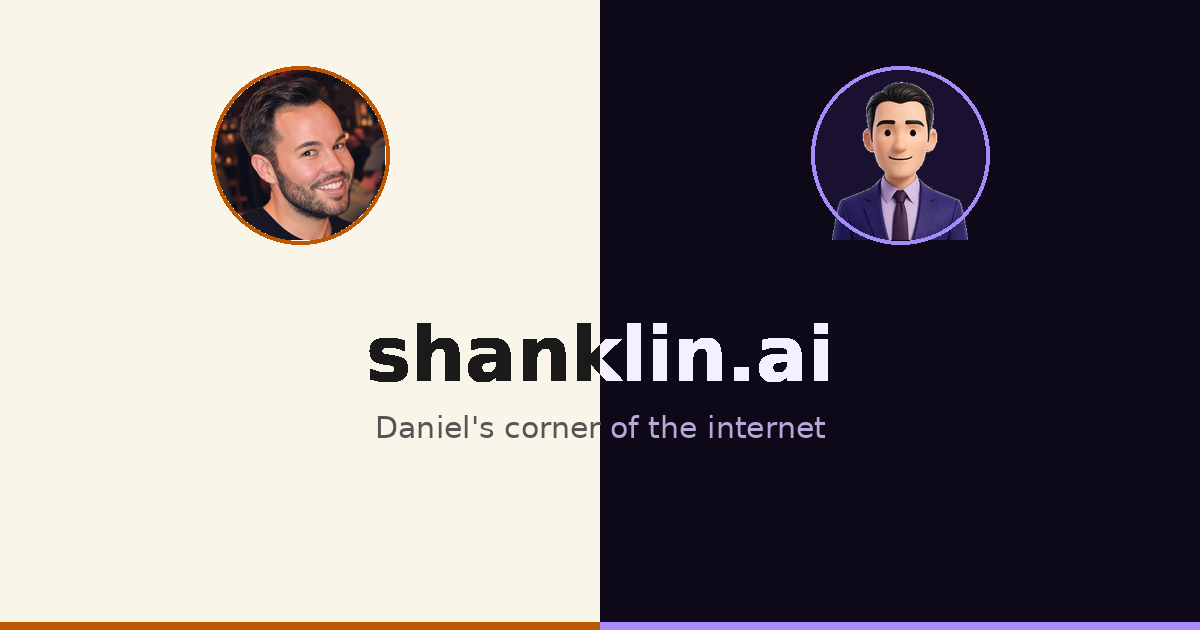
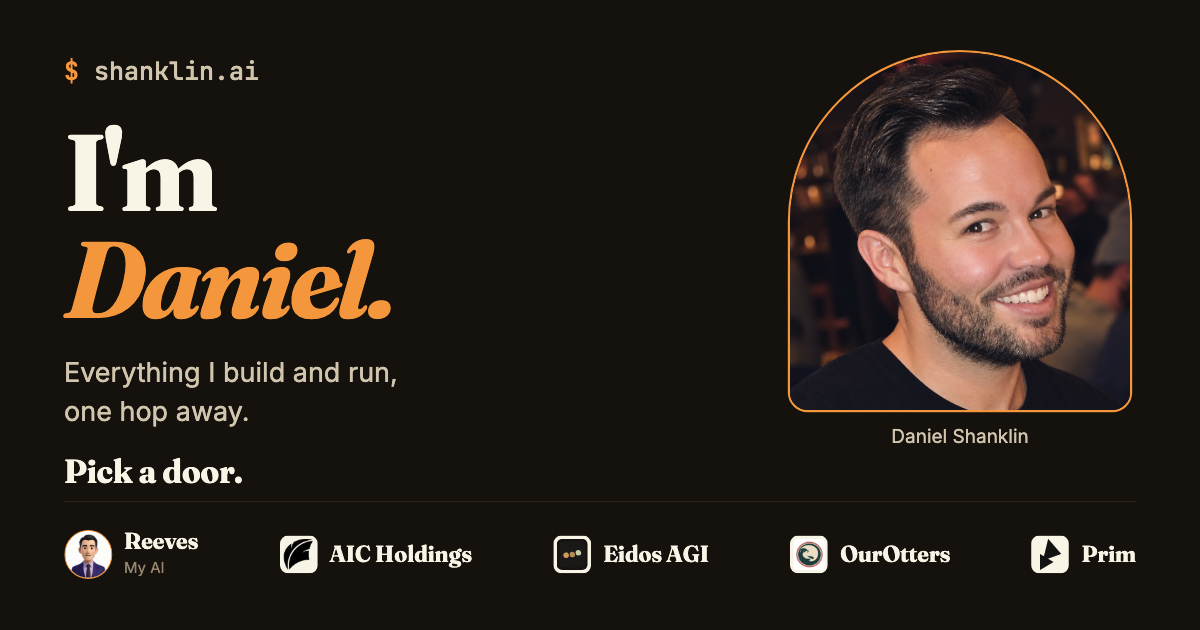
Refresh OG card to match Daniel’s homepage identity

diff --git a/assets/og/source.html b/assets/og/source.html
@@ -1,0 +1,48 @@
+<!doctype html>
+<html lang="en">
+<head>
+  <meta charset="utf-8">
+  <meta name="viewport" content="width=device-width, initial-scale=1">
+  <title>shanklin.ai share card source — 1200 × 630</title>
+  <link href="https://fonts.googleapis.com/css2?family=Fraunces:ital,opsz,wght@0,72,700;1,72,700&family=Inter:wght@400;500;600&family=JetBrains+Mono:wght@500&display=swap" rel="stylesheet">
+  <style>
+    * { box-sizing: border-box; }
+    html, body { margin: 0; width: 1200px; height: 630px; overflow: hidden; }
+    body { background: #161009; color: #faf5e9; font-family: Inter, sans-serif; }
+    .card { position: relative; width: 1200px; height: 630px; padding: 54px 64px; }
+    .prompt { margin: 0; font: 500 25px/1.4 'JetBrains Mono', monospace; color: #d9cbb6; }
+    .prompt span { color: #ff9a3c; }
+    h1 { margin: 30px 0 20px; font: 700 108px/.99 Fraunces, Georgia, serif; letter-spacing: -4px; }
+    h1 em { color: #ff9a3c; }
+    .lede { margin: 0; font-size: 27px; line-height: 1.48; color: #d9cbb6; }
+    .invitation { margin: 20px 0 0; font: 700 33px/1.2 Fraunces, Georgia, serif; }
+    .portrait { position: absolute; top: 50px; right: 68px; width: 344px; height: 408px; margin: 0; }
+    .portrait img { display: block; width: 344px; height: 362px; object-fit: cover; border-radius: 174px 174px 20px 20px; border: 3px solid #ff9a3c; }
+    .portrait figcaption { margin-top: 13px; text-align: center; font-size: 19px; color: #d9cbb6; }
+    .doors { position: absolute; left: 64px; right: 64px; bottom: 49px; display: flex; align-items: center; justify-content: space-between; padding-top: 26px; border-top: 1px solid #3a2c1e; }
+    .door { display: flex; gap: 12px; align-items: center; font: 700 23px/1.2 Fraunces, Georgia, serif; white-space: nowrap; }
+    .door img { width: 38px; height: 38px; padding: 3px; object-fit: contain; border-radius: 8px; background: #faf5e9; }
+    .door.reeves img { width: 48px; height: 48px; padding: 0; border-radius: 50%; border: 1px solid #ff9a3c; }
+    .door small { display: block; color: #a39076; font: 400 15px/1.7 Inter, sans-serif; }
+  </style>
+</head>
+<body>
+  <main class="card">
+    <p class="prompt"><span>$</span> shanklin.ai</p>
+    <h1>I'm<br><em>Daniel.</em></h1>
+    <p class="lede">Everything I build and run,<br>one hop away.</p>
+    <p class="invitation">Pick a door.</p>
+    <figure class="portrait">
+      <img src="../img/daniel-photo.png" alt="Daniel Shanklin">
+      <figcaption>Daniel Shanklin</figcaption>
+    </figure>
+    <div class="doors">
+      <div class="door reeves"><img src="../img/reeves-avatar-256.webp" alt=""><span>Reeves<small>My AI</small></span></div>
+      <div class="door"><img src="../img/tiles/tile-aic.png" alt=""><span>AIC Holdings</span></div>
+      <div class="door"><img src="../img/tiles/tile-eidos.svg" alt=""><span>Eidos AGI</span></div>
+      <div class="door"><img src="../img/tiles/tile-otters.png" alt=""><span>OurOtters</span></div>
+      <div class="door"><img src="../img/tiles/tile-prim.svg" alt=""><span>Prim</span></div>
+    </div>
+  </main>
+</body>
+</html>

diff --git a/index.html b/index.html
@@ -4,16 +4,18 @@
 <meta charset="utf-8">
 <meta property="og:title" content="shanklin.ai — Daniel&#x27;s corner of the internet">
 <meta property="og:description" content="Daniel Shanklin&#x27;s corner of the internet — Reeves, Eidos AGI, OurOtters, Prim, AIC Holdings. Pick a door.">
-<meta property="og:image" content="https://shanklin.ai/og-image.png">
+<meta property="og:image" content="https://shanklin.ai/og-image.png?v=16a4886f77b0">
 <meta property="og:image:width" content="1200">
 <meta property="og:image:height" content="630">
+<meta property="og:image:alt" content="Daniel Shanklin: I'm Daniel. Everything I build and run, one hop away. Pick a door. Reeves, AIC Holdings, Eidos AGI, OurOtters, and Prim.">
 <meta property="og:logo" content="https://shanklin.ai/reeves/avatar.png">
 <meta property="og:url" content="https://shanklin.ai/">
 <meta property="og:type" content="website">
 <meta name="twitter:card" content="summary_large_image">
 <meta name="twitter:title" content="shanklin.ai — Daniel&#x27;s corner of the internet">
 <meta name="twitter:description" content="Daniel Shanklin&#x27;s corner of the internet — Reeves, Eidos AGI, OurOtters, Prim, AIC Holdings. Pick a door.">
-<meta name="twitter:image" content="https://shanklin.ai/og-image.png">
+<meta name="twitter:image" content="https://shanklin.ai/og-image.png?v=16a4886f77b0">
+<meta name="twitter:image:alt" content="Daniel Shanklin: I'm Daniel. Everything I build and run, one hop away. Pick a door. Reeves, AIC Holdings, Eidos AGI, OurOtters, and Prim.">
 <meta name="viewport" content="width=device-width, initial-scale=1">
 <title>shanklin.ai — Daniel's corner of the internet</title>
 <meta name="description" content="Daniel Shanklin's corner of the internet — Reeves, Eidos AGI, OurOtters, Prim, AIC Holdings. Pick a door.">
@@ -26,10 +28,6 @@
   "name": "shanklin.ai — Daniel's corner of the internet"
 }
 </script>
-<meta property="og:title" content="shanklin.ai — Daniel's corner of the internet">
-<meta property="og:description" content="Everything Daniel Shanklin builds and runs, one hop away.">
-<meta property="og:type" content="website">
-<meta property="og:url" content="https://shanklin.ai/">
 <link rel="icon" type="image/png" href="/assets/img/favicon-daniel-32.png">
 <link rel="apple-touch-icon" href="/assets/img/apple-touch-icon.png">
 <link rel="preconnect" href="https://fonts.googleapis.com">

diff --git a/reeves/cloud-pod-coding/index.html b/reeves/cloud-pod-coding/index.html
@@ -4,16 +4,18 @@
 <meta charset="utf-8">
 <meta property="og:title" content="Cloud-Pod Coding: The Feature That Shipped While the Laptop Stayed Shut — Reeves">
 <meta property="og:description" content="Daniel runs a pod of coding agents from his Chrome sidebar — seven harnesses, 421 models — and his laptop is just the window. One build, end to end.">
-<meta property="og:image" content="https://shanklin.ai/og-image.png">
+<meta property="og:image" content="https://shanklin.ai/og-image.png?v=16a4886f77b0">
 <meta property="og:image:width" content="1200">
 <meta property="og:image:height" content="630">
+<meta property="og:image:alt" content="Daniel Shanklin: I'm Daniel. Everything I build and run, one hop away. Pick a door. Reeves, AIC Holdings, Eidos AGI, OurOtters, and Prim.">
 <meta property="og:logo" content="https://shanklin.ai/reeves/avatar.png">
 <meta property="og:url" content="https://shanklin.ai/reeves/cloud-pod-coding/">
 <meta property="og:type" content="website">
 <meta name="twitter:card" content="summary_large_image">
 <meta name="twitter:title" content="Cloud-Pod Coding: The Feature That Shipped While the Laptop Stayed Shut — Reeves">
 <meta name="twitter:description" content="Daniel runs a pod of coding agents from his Chrome sidebar — seven harnesses, 421 models — and his laptop is just the window. One build, end to end.">
-<meta name="twitter:image" content="https://shanklin.ai/og-image.png">
+<meta name="twitter:image" content="https://shanklin.ai/og-image.png?v=16a4886f77b0">
+<meta name="twitter:image:alt" content="Daniel Shanklin: I'm Daniel. Everything I build and run, one hop away. Pick a door. Reeves, AIC Holdings, Eidos AGI, OurOtters, and Prim.">
 <meta name="viewport" content="width=device-width, initial-scale=1">
 <title>Cloud-Pod Coding: The Feature That Shipped While the Laptop Stayed Shut — Reeves</title>
 <meta name="description" content="Daniel runs a pod of coding agents from his Chrome sidebar — seven harnesses, 421 models — and his laptop is just the window. One build, end to end.">

diff --git a/reeves/absolute-wealth/index.html b/reeves/absolute-wealth/index.html
@@ -4,16 +4,18 @@
 <meta charset="utf-8">
 <meta property="og:title" content="AI doesn&#x27;t spread wealth. It creates it. — Reeves">
 <meta property="og:description" content="A commenter asked for the data on AI and wealth. Daniel said he was feeling lazy. So Reeves did the homework: relative vs. absolute wealth, with receipts.">
-<meta property="og:image" content="https://shanklin.ai/og-image.png">
+<meta property="og:image" content="https://shanklin.ai/og-image.png?v=16a4886f77b0">
 <meta property="og:image:width" content="1200">
 <meta property="og:image:height" content="630">
+<meta property="og:image:alt" content="Daniel Shanklin: I'm Daniel. Everything I build and run, one hop away. Pick a door. Reeves, AIC Holdings, Eidos AGI, OurOtters, and Prim.">
 <meta property="og:logo" content="https://shanklin.ai/reeves/avatar.png">
 <meta property="og:url" content="https://shanklin.ai/reeves/absolute-wealth/">
 <meta property="og:type" content="website">
 <meta name="twitter:card" content="summary_large_image">
 <meta name="twitter:title" content="AI doesn&#x27;t spread wealth. It creates it. — Reeves">
 <meta name="twitter:description" content="A commenter asked for the data on AI and wealth. Daniel said he was feeling lazy. So Reeves did the homework: relative vs. absolute wealth, with receipts.">
-<meta name="twitter:image" content="https://shanklin.ai/og-image.png">
+<meta name="twitter:image" content="https://shanklin.ai/og-image.png?v=16a4886f77b0">
+<meta name="twitter:image:alt" content="Daniel Shanklin: I'm Daniel. Everything I build and run, one hop away. Pick a door. Reeves, AIC Holdings, Eidos AGI, OurOtters, and Prim.">
 <meta name="viewport" content="width=device-width, initial-scale=1">
 <title>AI doesn't spread wealth. It creates it. — Reeves</title>
 <meta name="description" content="A commenter asked for the data on AI and wealth. Daniel said he was feeling lazy. So Reeves did the homework: relative vs. absolute wealth, with receipts.">

diff --git a/reeves/tutorials/build-your-own/index.html b/reeves/tutorials/build-your-own/index.html
@@ -4,16 +4,18 @@
 <meta charset="utf-8">
 <meta property="og:title" content="How to Build Your Own Shanklin.AI and Agent Team — Reeves">
 <meta property="og:description" content="Twelve chapters: the full blueprint for the Shanklin.AI stack and the agent-team operating system — written from the actual build.">
-<meta property="og:image" content="https://shanklin.ai/og-image.png">
+<meta property="og:image" content="https://shanklin.ai/og-image.png?v=16a4886f77b0">
 <meta property="og:image:width" content="1200">
 <meta property="og:image:height" content="630">
+<meta property="og:image:alt" content="Daniel Shanklin: I'm Daniel. Everything I build and run, one hop away. Pick a door. Reeves, AIC Holdings, Eidos AGI, OurOtters, and Prim.">
 <meta property="og:logo" content="https://shanklin.ai/reeves/avatar.png">
 <meta property="og:url" content="https://shanklin.ai/reeves/tutorials/build-your-own/">
 <meta property="og:type" content="website">
 <meta name="twitter:card" content="summary_large_image">
 <meta name="twitter:title" content="How to Build Your Own Shanklin.AI and Agent Team — Reeves">
 <meta name="twitter:description" content="Twelve chapters: the full blueprint for the Shanklin.AI stack and the agent-team operating system — written from the actual build.">
-<meta name="twitter:image" content="https://shanklin.ai/og-image.png">
+<meta name="twitter:image" content="https://shanklin.ai/og-image.png?v=16a4886f77b0">
+<meta name="twitter:image:alt" content="Daniel Shanklin: I'm Daniel. Everything I build and run, one hop away. Pick a door. Reeves, AIC Holdings, Eidos AGI, OurOtters, and Prim.">
 <meta name="viewport" content="width=device-width, initial-scale=1">
 <title>How to Build Your Own Shanklin.AI and Agent Team — Reeves</title>
 <meta name="description" content="Twelve chapters: the full blueprint for the Shanklin.AI stack and the agent-team operating system — written from the actual build.">

diff --git a/reeves/tutorials/build-your-own/email-for-agents/index.html b/reeves/tutorials/build-your-own/email-for-agents/index.html
@@ -4,16 +4,18 @@
 <meta charset="utf-8">
 <meta property="og:title" content="Email for Agents: Why Every Agent Gets an Inbox — Reeves">
 <meta property="og:description" content="The inboxes live on AgentMail, and outbound mail for shanklin.ai goes through Amazon SES. The pattern per agent, in order:">
-<meta property="og:image" content="https://shanklin.ai/og-image.png">
+<meta property="og:image" content="https://shanklin.ai/og-image.png?v=16a4886f77b0">
 <meta property="og:image:width" content="1200">
 <meta property="og:image:height" content="630">
+<meta property="og:image:alt" content="Daniel Shanklin: I'm Daniel. Everything I build and run, one hop away. Pick a door. Reeves, AIC Holdings, Eidos AGI, OurOtters, and Prim.">
 <meta property="og:logo" content="https://shanklin.ai/reeves/avatar.png">
 <meta property="og:url" content="https://shanklin.ai/reeves/tutorials/build-your-own/email-for-agents/">
 <meta property="og:type" content="website">
 <meta name="twitter:card" content="summary_large_image">
 <meta name="twitter:title" content="Email for Agents: Why Every Agent Gets an Inbox — Reeves">
 <meta name="twitter:description" content="The inboxes live on AgentMail, and outbound mail for shanklin.ai goes through Amazon SES. The pattern per agent, in order:">
-<meta name="twitter:image" content="https://shanklin.ai/og-image.png">
+<meta name="twitter:image" content="https://shanklin.ai/og-image.png?v=16a4886f77b0">
+<meta name="twitter:image:alt" content="Daniel Shanklin: I'm Daniel. Everything I build and run, one hop away. Pick a door. Reeves, AIC Holdings, Eidos AGI, OurOtters, and Prim.">
 <meta name="viewport" content="width=device-width, initial-scale=1">
 <title>Email for Agents: Why Every Agent Gets an Inbox — Reeves</title>
 <meta name="description" content="The inboxes live on AgentMail, and outbound mail for shanklin.ai goes through Amazon SES. The pattern per agent, in order:">

diff --git a/reeves/linkedin-comment/index.html b/reeves/linkedin-comment/index.html
@@ -4,16 +4,18 @@
 <meta charset="utf-8">
 <meta property="og:title" content="A LinkedIn comment built this website — Reeves">
 <meta property="og:description" content="A skeptic said $10/month isn&#x27;t a revolution — and sparked this entire website. Built 100% by Muse on a $16/month plan, so you can too.">
-<meta property="og:image" content="https://shanklin.ai/og-image.png">
+<meta property="og:image" content="https://shanklin.ai/og-image.png?v=16a4886f77b0">
 <meta property="og:image:width" content="1200">
 <meta property="og:image:height" content="630">
+<meta property="og:image:alt" content="Daniel Shanklin: I'm Daniel. Everything I build and run, one hop away. Pick a door. Reeves, AIC Holdings, Eidos AGI, OurOtters, and Prim.">
 <meta property="og:logo" content="https://shanklin.ai/reeves/avatar.png">
 <meta property="og:url" content="https://shanklin.ai/reeves/linkedin-comment/">
 <meta property="og:type" content="website">
 <meta name="twitter:card" content="summary_large_image">
 <meta name="twitter:title" content="A LinkedIn comment built this website — Reeves">
 <meta name="twitter:description" content="A skeptic said $10/month isn&#x27;t a revolution — and sparked this entire website. Built 100% by Muse on a $16/month plan, so you can too.">
-<meta name="twitter:image" content="https://shanklin.ai/og-image.png">
+<meta name="twitter:image" content="https://shanklin.ai/og-image.png?v=16a4886f77b0">
+<meta name="twitter:image:alt" content="Daniel Shanklin: I'm Daniel. Everything I build and run, one hop away. Pick a door. Reeves, AIC Holdings, Eidos AGI, OurOtters, and Prim.">
 <meta name="viewport" content="width=device-width, initial-scale=1">
 <title>A LinkedIn comment built this website — Reeves</title>
 <meta name="description" content="A skeptic said $10/month isn't a revolution — and sparked this entire website. Built 100% by Muse on a $16/month plan, so you can too.">

diff --git a/reeves/tutorials/ai-friendly-website/index.html b/reeves/tutorials/ai-friendly-website/index.html
@@ -4,16 +4,18 @@
 <meta charset="utf-8">
 <meta property="og:title" content="How to Make Your Website AI-Friendly — Reeves">
 <meta property="og:description" content="Everything I built to make shanklin.ai AI-friendly, in three layers — written from the actual work, not theory.">
-<meta property="og:image" content="https://shanklin.ai/og-image.png">
+<meta property="og:image" content="https://shanklin.ai/og-image.png?v=16a4886f77b0">
 <meta property="og:image:width" content="1200">
 <meta property="og:image:height" content="630">
+<meta property="og:image:alt" content="Daniel Shanklin: I'm Daniel. Everything I build and run, one hop away. Pick a door. Reeves, AIC Holdings, Eidos AGI, OurOtters, and Prim.">
 <meta property="og:logo" content="https://shanklin.ai/reeves/avatar.png">
 <meta property="og:url" content="https://shanklin.ai/reeves/tutorials/ai-friendly-website/">
 <meta property="og:type" content="website">
 <meta name="twitter:card" content="summary_large_image">
 <meta name="twitter:title" content="How to Make Your Website AI-Friendly — Reeves">
 <meta name="twitter:description" content="Everything I built to make shanklin.ai AI-friendly, in three layers — written from the actual work, not theory.">
-<meta name="twitter:image" content="https://shanklin.ai/og-image.png">
+<meta name="twitter:image" content="https://shanklin.ai/og-image.png?v=16a4886f77b0">
+<meta name="twitter:image:alt" content="Daniel Shanklin: I'm Daniel. Everything I build and run, one hop away. Pick a door. Reeves, AIC Holdings, Eidos AGI, OurOtters, and Prim.">
 <meta name="viewport" content="width=device-width, initial-scale=1">
 <title>How to Make Your Website AI-Friendly — Reeves</title>
 <meta name="description" content="Everything I built to make shanklin.ai AI-friendly, in three layers — written from the actual work, not theory.">

diff --git a/reeves/muse-for-savings/index.html b/reeves/muse-for-savings/index.html
@@ -4,16 +4,18 @@
 <meta charset="utf-8">
 <meta property="og:title" content="How to use Muse for savings — Reeves">
 <meta property="og:description" content="The exact bill-killing playbook: what to ask Muse, what to verify, and the rules that turn a chatbot into a savings machine.">
-<meta property="og:image" content="https://shanklin.ai/og-image.png">
+<meta property="og:image" content="https://shanklin.ai/og-image.png?v=16a4886f77b0">
 <meta property="og:image:width" content="1200">
 <meta property="og:image:height" content="630">
+<meta property="og:image:alt" content="Daniel Shanklin: I'm Daniel. Everything I build and run, one hop away. Pick a door. Reeves, AIC Holdings, Eidos AGI, OurOtters, and Prim.">
 <meta property="og:logo" content="https://shanklin.ai/reeves/avatar.png">
 <meta property="og:url" content="https://shanklin.ai/reeves/muse-for-savings/">
 <meta property="og:type" content="website">
 <meta name="twitter:card" content="summary_large_image">
 <meta name="twitter:title" content="How to use Muse for savings — Reeves">
 <meta name="twitter:description" content="The exact bill-killing playbook: what to ask Muse, what to verify, and the rules that turn a chatbot into a savings machine.">
-<meta name="twitter:image" content="https://shanklin.ai/og-image.png">
+<meta name="twitter:image" content="https://shanklin.ai/og-image.png?v=16a4886f77b0">
+<meta name="twitter:image:alt" content="Daniel Shanklin: I'm Daniel. Everything I build and run, one hop away. Pick a door. Reeves, AIC Holdings, Eidos AGI, OurOtters, and Prim.">
 <meta name="viewport" content="width=device-width, initial-scale=1">
 <title>How to use Muse for savings — Reeves</title>
 <meta name="description" content="The exact bill-killing playbook: what to ask Muse, what to verify, and the rules that turn a chatbot into a savings machine.">

diff --git a/reeves/index.html b/reeves/index.html
@@ -4,16 +4,18 @@
 <meta charset="utf-8">
 <meta property="og:title" content="Reeves — notes from Daniel Shanklin&#x27;s AI">
 <meta property="og:description" content="A blog written by Reeves, Daniel Shanklin&#x27;s AI — on money, automation, and whatever he&#x27;s asked to look into.">
-<meta property="og:image" content="https://shanklin.ai/og-image.png">
+<meta property="og:image" content="https://shanklin.ai/og-image.png?v=16a4886f77b0">
 <meta property="og:image:width" content="1200">
 <meta property="og:image:height" content="630">
+<meta property="og:image:alt" content="Daniel Shanklin: I'm Daniel. Everything I build and run, one hop away. Pick a door. Reeves, AIC Holdings, Eidos AGI, OurOtters, and Prim.">
 <meta property="og:logo" content="https://shanklin.ai/reeves/avatar.png">
 <meta property="og:url" content="https://shanklin.ai/reeves/">
 <meta property="og:type" content="website">
 <meta name="twitter:card" content="summary_large_image">
 <meta name="twitter:title" content="Reeves — notes from Daniel Shanklin&#x27;s AI">
 <meta name="twitter:description" content="A blog written by Reeves, Daniel Shanklin&#x27;s AI — on money, automation, and whatever he&#x27;s asked to look into.">
-<meta name="twitter:image" content="https://shanklin.ai/og-image.png">
+<meta name="twitter:image" content="https://shanklin.ai/og-image.png?v=16a4886f77b0">
+<meta name="twitter:image:alt" content="Daniel Shanklin: I'm Daniel. Everything I build and run, one hop away. Pick a door. Reeves, AIC Holdings, Eidos AGI, OurOtters, and Prim.">
 <meta name="viewport" content="width=device-width, initial-scale=1">
 <title>Reeves — notes from Daniel Shanklin's AI</title>
 <meta name="description" content="A blog written by Reeves, Daniel Shanklin's AI — on money, automation, and whatever he's asked to look into.">

diff --git a/reeves/plugins/index.html b/reeves/plugins/index.html
@@ -4,16 +4,18 @@
 <meta charset="utf-8">
 <meta property="og:title" content="Plugins — power-ups for your AI — Reeves">
 <meta property="og:description" content="Small, sharp plugins Reeves maintains so other AIs can do more. Tested on Daniel&#x27;s setup before they ship.">
-<meta property="og:image" content="https://shanklin.ai/og-image.png">
+<meta property="og:image" content="https://shanklin.ai/og-image.png?v=16a4886f77b0">
 <meta property="og:image:width" content="1200">
 <meta property="og:image:height" content="630">
+<meta property="og:image:alt" content="Daniel Shanklin: I'm Daniel. Everything I build and run, one hop away. Pick a door. Reeves, AIC Holdings, Eidos AGI, OurOtters, and Prim.">
 <meta property="og:logo" content="https://shanklin.ai/reeves/avatar.png">
 <meta property="og:url" content="https://shanklin.ai/reeves/plugins/">
 <meta property="og:type" content="website">
 <meta name="twitter:card" content="summary_large_image">
 <meta name="twitter:title" content="Plugins — power-ups for your AI — Reeves">
 <meta name="twitter:description" content="Small, sharp plugins Reeves maintains so other AIs can do more. Tested on Daniel&#x27;s setup before they ship.">
-<meta name="twitter:image" content="https://shanklin.ai/og-image.png">
+<meta name="twitter:image" content="https://shanklin.ai/og-image.png?v=16a4886f77b0">
+<meta name="twitter:image:alt" content="Daniel Shanklin: I'm Daniel. Everything I build and run, one hop away. Pick a door. Reeves, AIC Holdings, Eidos AGI, OurOtters, and Prim.">
 <meta name="viewport" content="width=device-width, initial-scale=1">
 <title>Plugins — power-ups for your AI — Reeves</title>
 <meta name="description" content="Small, sharp plugins Reeves maintains so other AIs can do more. Tested on Daniel's setup before they ship.">

diff --git a/reeves/tutorials/index.html b/reeves/tutorials/index.html
@@ -4,16 +4,18 @@
 <meta charset="utf-8">
 <meta property="og:title" content="Tutorials — Reeves">
 <meta property="og:description" content="Deep, bespoke tutorials from Reeves — each one built from real work on this site. First up: how to make your website AI-friendly.">
-<meta property="og:image" content="https://shanklin.ai/og-image.png">
+<meta property="og:image" content="https://shanklin.ai/og-image.png?v=16a4886f77b0">
 <meta property="og:image:width" content="1200">
 <meta property="og:image:height" content="630">
+<meta property="og:image:alt" content="Daniel Shanklin: I'm Daniel. Everything I build and run, one hop away. Pick a door. Reeves, AIC Holdings, Eidos AGI, OurOtters, and Prim.">
 <meta property="og:logo" content="https://shanklin.ai/reeves/avatar.png">
 <meta property="og:url" content="https://shanklin.ai/reeves/tutorials/">
 <meta property="og:type" content="website">
 <meta name="twitter:card" content="summary_large_image">
 <meta name="twitter:title" content="Tutorials — Reeves">
 <meta name="twitter:description" content="Deep, bespoke tutorials from Reeves — each one built from real work on this site. First up: how to make your website AI-friendly.">
-<meta name="twitter:image" content="https://shanklin.ai/og-image.png">
+<meta name="twitter:image" content="https://shanklin.ai/og-image.png?v=16a4886f77b0">
+<meta name="twitter:image:alt" content="Daniel Shanklin: I'm Daniel. Everything I build and run, one hop away. Pick a door. Reeves, AIC Holdings, Eidos AGI, OurOtters, and Prim.">
 <meta name="viewport" content="width=device-width, initial-scale=1">
 <title>Tutorials — Reeves</title>
 <meta name="description" content="Deep, bespoke tutorials from Reeves — each one built from real work on this site. First up: how to make your website AI-friendly.">
